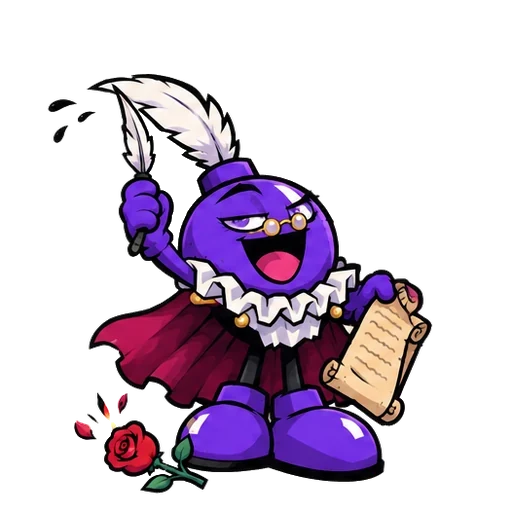
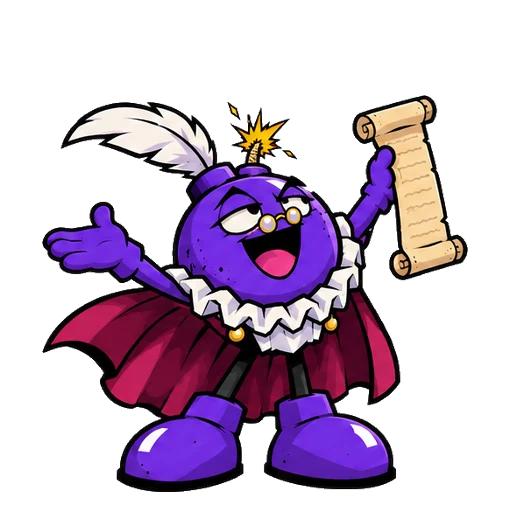
feat(cast): QUILL's WIN repainted as a 6-frame flipbook — the verse, the bow, a rose for you

diff --git a/src/cast/cast.js b/src/cast/cast.js
@@ -487,8 +487,7 @@ registerWinFrames('jinx', WIN_SEQ6);
 registerWinFrames('salty', WIN_SEQ6); // lands → leans on the cutlass → the treasure chest → over its head → hook salute
 registerWinFrames('nova', WIN_SEQ6); // rises, the shooting star curls round → a spin → a clap of stars → points at you → arms crossed
 registerWinFrames('hollow', WIN_SEQ6); // lands crouched → fists up → the hop, fuse flares, candy corn bursts → cackles → catches a candy corn, points at you → arms crossed
-// QUILL's sheet lost two frames to cleanup (a feather cut out, a collar pocket) — four clean beats: heart → verse → quill high → the smug nod
-registerWinFrames('quill', { n: 4, seq: [[1, 520], [2, 620], [3, 900]], rest: 700 });
+registerWinFrames('quill', WIN_SEQ6); // oct26 repaint (was 4 frames): hand on heart → reads the verse → arm to the sky, cape out → the bow → tosses you a rose → the smug nod
 export const castFrames = (id, pose = 'hero') => (FRAME_SPECS[pose] && FRAME_SPECS[pose][id]) || null;
 export const castLayers = (id, pose = 'hero') => (CAST_LAYERS[id] && CAST_LAYERS[id][pose]) || null;
 /** SIGNATURE IDLES (Andy oct17: "not have the same animation EVERYWHERE"): the profile showcase plays each member's own
